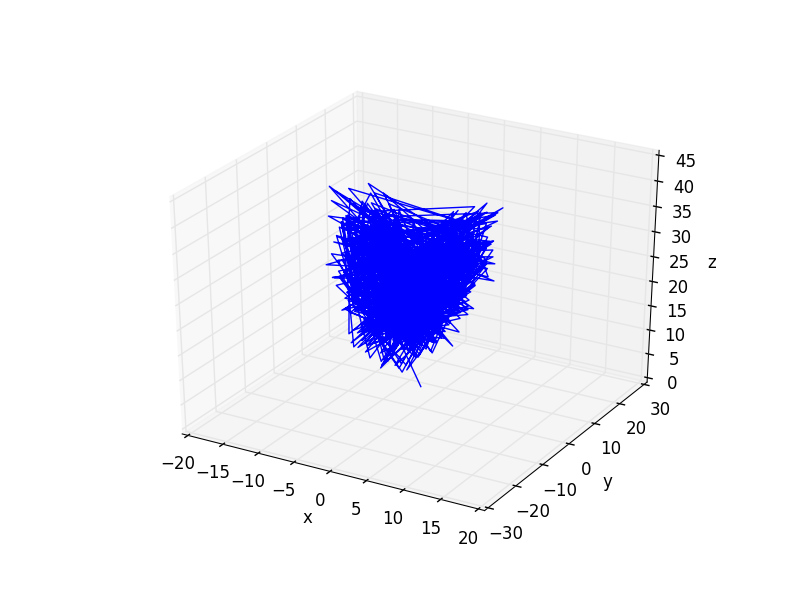
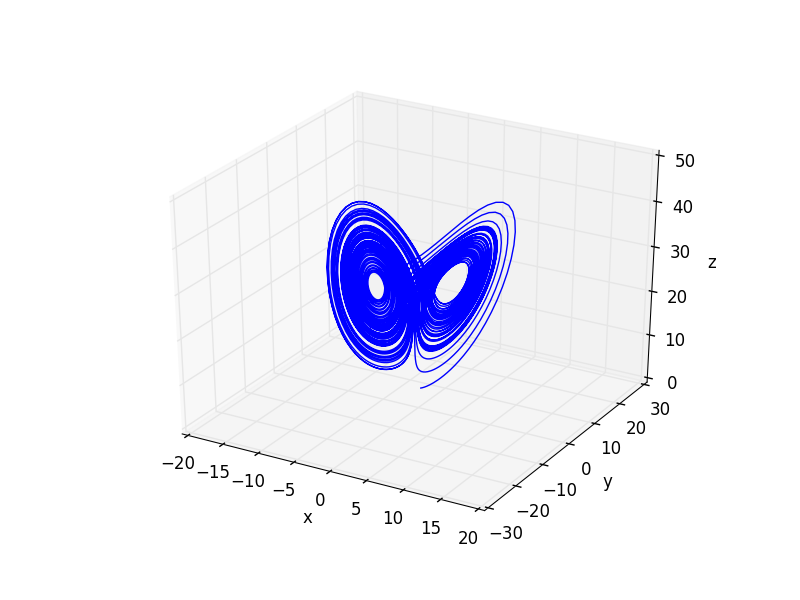
Grafico en 3D muestra la “mariposa”

Changed region(s): [[0.4062, 0.3, 0.6562, 0.63], [0.8125, 0.24, 0.875, 0.6]]

diff --git a/tarea_3.py b/tarea_3.py
@@ -64,18 +64,17 @@ y = RK3(mu, h, n, v, y0)
 
 #P2: Resolver el sistema de Lorenz con el metodo de Runge-Kutta de orden 4
 
-n = 1000
+n = 10000
 ti = 0
-tf = 1000
+tf = 100
 x0 = 1.0
 y0 = 2.0
 z0 = 3.0
 
 def derivadas(d, t, params):
     '''
-    dx_ds: num num num -> num
-    Calcula la funcion dx_ds.
-    ejemplo:
+    derivadas: array array array -> -
+    Calcula los valores de dx_dt, dy_dt, dz_dt.
     '''
     a, b, c = d
     sigma, beta, rho = params
